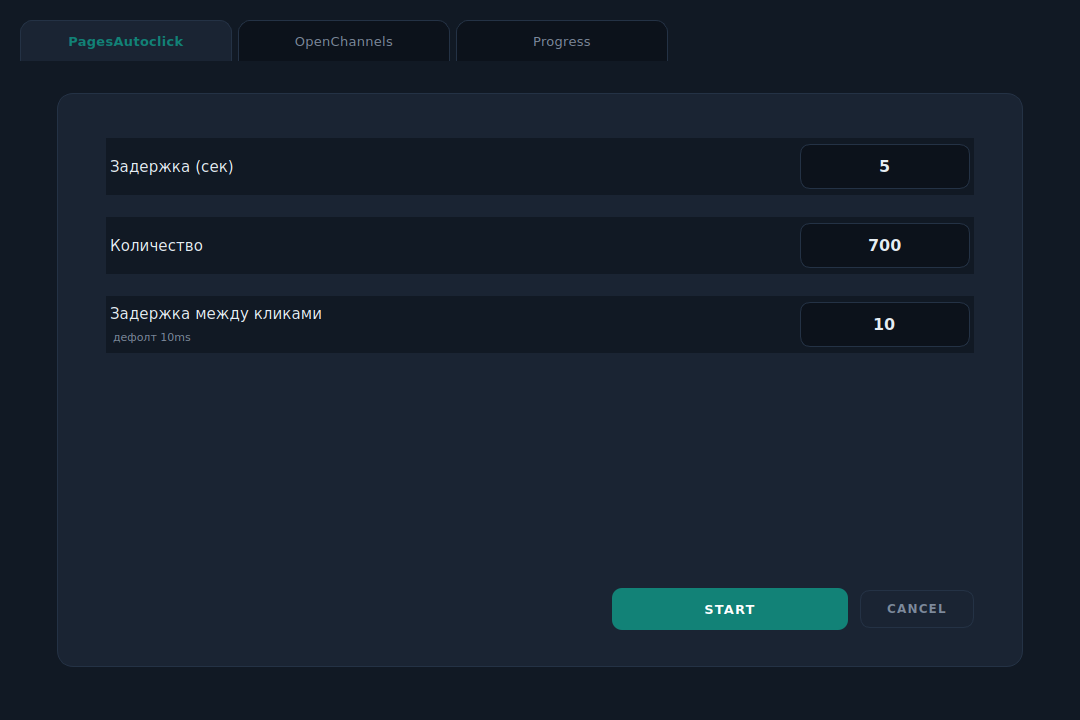
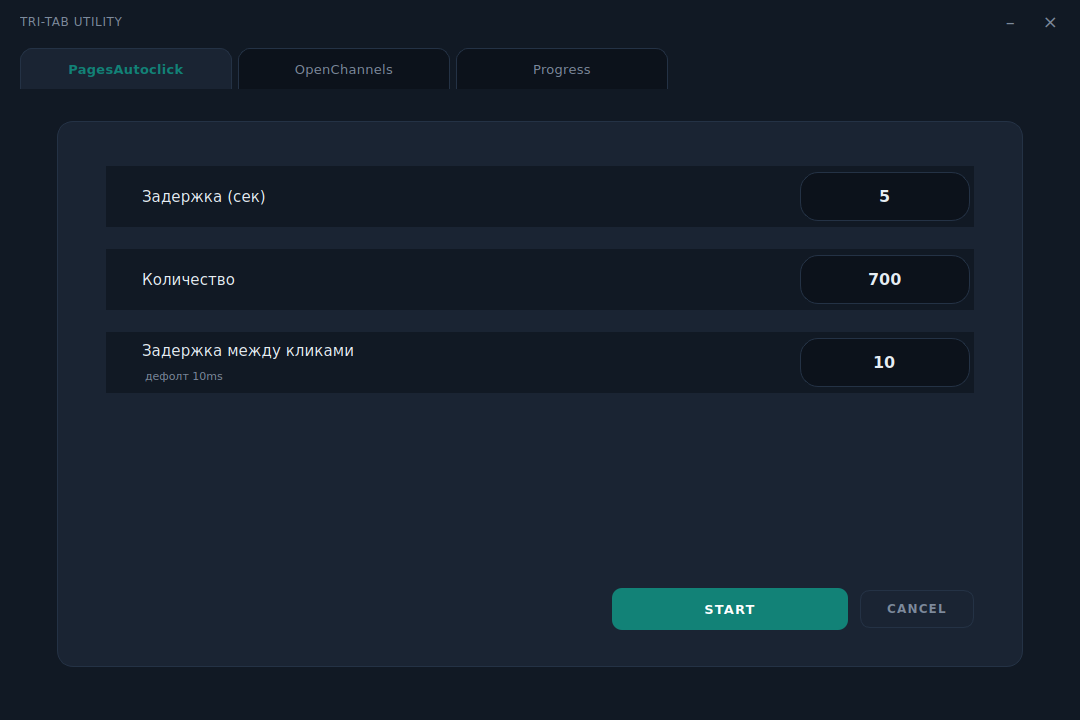
Update application interface with improved styling and custom window controls
Implement Helvetica font, rounded input fields, adjusted padding, and a custom frameless window with minimize/close buttons.

Replit-Commit-Author: Agent
Replit-Commit-Session-Id: fa9c77c0-7a4c-45c5-8648-3131b077b8af
Replit-Commit-Checkpoint-Type: full_checkpoint
Replit-Commit-Event-Id: b21d5144-1917-4651-a9e3-d00d262d8739
Replit-Helium-Checkpoint-Created: true

diff --git a/desktop-app/main.py b/desktop-app/main.py
@@ -12,8 +12,8 @@ from __future__ import annotations
 
 import sys
 
-from PyQt6.QtCore import Qt
-from PyQt6.QtGui import QFont, QIcon, QIntValidator
+from PyQt6.QtCore import QPoint, QRect, Qt
+from PyQt6.QtGui import QFont, QIcon, QIntValidator, QMouseEvent
 from PyQt6.QtWidgets import (
     QApplication,
     QFrame,
@@ -50,7 +50,7 @@ QSS = f"""
 QMainWindow, QWidget {{
     background-color: {BG_PRIMARY};
     color: {TEXT_PRIMARY};
-    font-family: 'Inter', 'Segoe UI', 'SF Pro Text', 'Helvetica Neue', Arial, sans-serif;
+    font-family: 'Helvetica', 'Helvetica Neue', 'Arial', 'Liberation Sans', 'DejaVu Sans', sans-serif;
     font-size: 13px;
 }}
 
@@ -108,8 +108,8 @@ QLabel#SmallLabel {{
     color: {TEXT_MUTED};
     font-size: 11px;
     font-weight: 600;
-    letter-spacing: 1.2px;
-    padding-bottom: 2px;
+    letter-spacing: 1.4px;
+    padding: 4px 0 8px 14px;
 }}
 QLabel#TotalAmount {{
     color: {TEXT_PRIMARY};
@@ -123,8 +123,8 @@ QLineEdit {{
     background-color: {BG_SUNKEN};
     color: {TEXT_PRIMARY};
     border: 1px solid {BORDER};
-    border-radius: 10px;
-    padding: 10px 14px;
+    border-radius: 16px;
+    padding: 12px 16px;
     font-size: 14px;
     selection-background-color: {SECONDARY};
 }}
@@ -136,7 +136,8 @@ QLineEdit#NumericInput {{
     font-weight: 600;
     qproperty-alignment: AlignCenter;
     min-width: 130px;
-    padding: 11px 14px;
+    padding: 13px 16px;
+    border-radius: 18px;
 }}
 QLineEdit#TotalInput {{
     font-size: 16px;
@@ -144,6 +145,7 @@ QLineEdit#TotalInput {{
     qproperty-alignment: AlignCenter;
     color: {TEXT_PRIMARY};
     background-color: #0a1018;
+    border-radius: 18px;
 }}
 
 /* Buttons */
@@ -245,6 +247,41 @@ QProgressBar#TotalProgress::chunk {{
         stop:0 {SECONDARY}, stop:1 {EMERALD});
 }}
 
+/* Window control buttons */
+QPushButton#WindowMin, QPushButton#WindowClose {{
+    background-color: transparent;
+    color: {TEXT_MUTED};
+    border: none;
+    border-radius: 8px;
+    min-width: 38px;
+    max-width: 38px;
+    min-height: 30px;
+    max-height: 30px;
+    padding: 0;
+    font-size: 18px;
+    font-weight: 400;
+    letter-spacing: 0;
+}}
+QPushButton#WindowMin:hover {{
+    background-color: #1a2433;
+    color: {TEXT_PRIMARY};
+}}
+QPushButton#WindowClose:hover {{
+    background-color: {DANGER};
+    color: white;
+}}
+
+/* Title bar widget */
+QWidget#TitleBar {{
+    background-color: {BG_PRIMARY};
+}}
+QLabel#WindowTitle {{
+    color: {TEXT_MUTED};
+    font-size: 12px;
+    font-weight: 500;
+    letter-spacing: 0.6px;
+}}
+
 /* Radio button (the round selector on the left of each progress bar) */
 QPushButton#PickerDot {{
     background-color: transparent;
@@ -282,7 +319,7 @@ def make_field_row(label_text: str, default_value: str, hint: str | None = None,
     row = QWidget()
     row.setSizePolicy(QSizePolicy.Policy.Expanding, QSizePolicy.Policy.Fixed)
     h = QHBoxLayout(row)
-    h.setContentsMargins(4, 6, 4, 6)
+    h.setContentsMargins(36, 6, 4, 6)
     h.setSpacing(20)
 
     label_box = QVBoxLayout()
@@ -595,37 +632,213 @@ class ProgressTab(QWidget):
 
 
 # ---------------------------------------------------------------------------
-# Main window
+# Custom title bar (frameless window)
+# ---------------------------------------------------------------------------
+
+
+class TitleBar(QWidget):
+    def __init__(self, parent_window: "MainWindow", title: str = "") -> None:
+        super().__init__(parent_window)
+        self.setObjectName("TitleBar")
+        self.parent_window = parent_window
+        self._drag_offset: QPoint | None = None
+        self.setFixedHeight(44)
+
+        layout = QHBoxLayout(self)
+        layout.setContentsMargins(20, 6, 10, 6)
+        layout.setSpacing(2)
+
+        title_label = QLabel(title)
+        title_label.setObjectName("WindowTitle")
+        layout.addWidget(title_label)
+        layout.addStretch(1)
+
+        self.min_btn = QPushButton("\u2013")  # en dash – minimal "minus" glyph
+        self.min_btn.setObjectName("WindowMin")
+        self.min_btn.setCursor(Qt.CursorShape.PointingHandCursor)
+        self.min_btn.clicked.connect(parent_window.showMinimized)
+
+        self.close_btn = QPushButton("\u00d7")  # × multiplication sign
+        self.close_btn.setObjectName("WindowClose")
+        self.close_btn.setCursor(Qt.CursorShape.PointingHandCursor)
+        self.close_btn.clicked.connect(parent_window.close)
+
+        layout.addWidget(self.min_btn)
+        layout.addWidget(self.close_btn)
+
+    # drag the window by the title bar
+    def mousePressEvent(self, ev: QMouseEvent) -> None:
+        if ev.button() == Qt.MouseButton.LeftButton:
+            self._drag_offset = (
+                ev.globalPosition().toPoint()
+                - self.parent_window.frameGeometry().topLeft()
+            )
+            ev.accept()
+
+    def mouseMoveEvent(self, ev: QMouseEvent) -> None:
+        if self._drag_offset is not None and ev.buttons() & Qt.MouseButton.LeftButton:
+            if self.parent_window.isMaximized():
+                # restore on drag-from-maximized so the window follows the cursor
+                self.parent_window.showNormal()
+            self.parent_window.move(ev.globalPosition().toPoint() - self._drag_offset)
+            ev.accept()
+
+    def mouseReleaseEvent(self, ev: QMouseEvent) -> None:
+        self._drag_offset = None
+
+    def mouseDoubleClickEvent(self, ev: QMouseEvent) -> None:
+        if self.parent_window.isMaximized():
+            self.parent_window.showNormal()
+        else:
+            self.parent_window.showMaximized()
+
+
+# ---------------------------------------------------------------------------
+# Main window — frameless + edge-resizable
 # ---------------------------------------------------------------------------
 
 
 class MainWindow(QMainWindow):
+    RESIZE_MARGIN = 6
+
     def __init__(self) -> None:
         super().__init__()
+        self.setWindowFlags(Qt.WindowType.FramelessWindowHint)
+        self.setAttribute(Qt.WidgetAttribute.WA_TranslucentBackground, False)
+        self.setMouseTracking(True)
         self.setWindowTitle("Tri-Tab Utility")
         self.setMinimumSize(960, 620)
         self.resize(1080, 720)
 
+        # resize state
+        self._resize_dir: str | None = None
+        self._resize_start_pos: QPoint | None = None
+        self._resize_start_geom: QRect | None = None
+
         central = QWidget()
+        central.setMouseTracking(True)
         self.setCentralWidget(central)
         layout = QVBoxLayout(central)
-        layout.setContentsMargins(20, 20, 20, 20)
-        layout.setSpacing(10)
+        layout.setContentsMargins(0, 0, 0, 0)
+        layout.setSpacing(0)
+
+        # Title bar
+        self.title_bar = TitleBar(self, "TRI-TAB UTILITY")
+        layout.addWidget(self.title_bar)
+
+        # Body container
+        body = QWidget()
+        body.setMouseTracking(True)
+        body_layout = QVBoxLayout(body)
+        body_layout.setContentsMargins(20, 4, 20, 20)
+        body_layout.setSpacing(10)
 
         tabs = QTabWidget()
         tabs.setDocumentMode(True)
         tabs.addTab(AutoclickTab(), "PagesAutoclick")
         tabs.addTab(OpenChannelsTab(), "OpenChannels")
         tabs.addTab(ProgressTab(), "Progress")
-        layout.addWidget(tabs)
+        body_layout.addWidget(tabs)
+        layout.addWidget(body)
+
+    # ---------------- frameless edge resize ----------------
+    def _hit_test(self, pos: QPoint) -> str | None:
+        m = self.RESIZE_MARGIN
+        rect = self.rect()
+        x, y = pos.x(), pos.y()
+        on_left = x <= m
+        on_right = x >= rect.width() - m
+        on_top = y <= m
+        on_bottom = y >= rect.height() - m
+        if on_top and on_left:
+            return "tl"
+        if on_top and on_right:
+            return "tr"
+        if on_bottom and on_left:
+            return "bl"
+        if on_bottom and on_right:
+            return "br"
+        if on_left:
+            return "l"
+        if on_right:
+            return "r"
+        if on_top:
+            return "t"
+        if on_bottom:
+            return "b"
+        return None
+
+    def mouseMoveEvent(self, ev: QMouseEvent) -> None:
+        if self._resize_dir and ev.buttons() & Qt.MouseButton.LeftButton:
+            self._do_resize(ev.globalPosition().toPoint())
+            return
+        h = self._hit_test(ev.position().toPoint())
+        cursors = {
+            "l": Qt.CursorShape.SizeHorCursor,
+            "r": Qt.CursorShape.SizeHorCursor,
+            "t": Qt.CursorShape.SizeVerCursor,
+            "b": Qt.CursorShape.SizeVerCursor,
+            "tl": Qt.CursorShape.SizeFDiagCursor,
+            "br": Qt.CursorShape.SizeFDiagCursor,
+            "tr": Qt.CursorShape.SizeBDiagCursor,
+            "bl": Qt.CursorShape.SizeBDiagCursor,
+        }
+        if h:
+            self.setCursor(cursors[h])
+        else:
+            self.unsetCursor()
+        super().mouseMoveEvent(ev)
+
+    def mousePressEvent(self, ev: QMouseEvent) -> None:
+        if ev.button() == Qt.MouseButton.LeftButton:
+            h = self._hit_test(ev.position().toPoint())
+            if h:
+                self._resize_dir = h
+                self._resize_start_pos = ev.globalPosition().toPoint()
+                self._resize_start_geom = QRect(self.geometry())
+                ev.accept()
+                return
+        super().mousePressEvent(ev)
+
+    def mouseReleaseEvent(self, ev: QMouseEvent) -> None:
+        self._resize_dir = None
+        super().mouseReleaseEvent(ev)
+
+    def _do_resize(self, gpos: QPoint) -> None:
+        if not self._resize_dir or self._resize_start_geom is None:
+            return
+        delta = gpos - self._resize_start_pos
+        g = QRect(self._resize_start_geom)
+        d = self._resize_dir
+        min_w = self.minimumWidth()
+        min_h = self.minimumHeight()
+        if "l" in d:
+            new_left = g.left() + delta.x()
+            if g.right() - new_left + 1 < min_w:
+                new_left = g.right() - min_w + 1
+            g.setLeft(new_left)
+        if "r" in d:
+            new_right = g.right() + delta.x()
+            if new_right - g.left() + 1 < min_w:
+                new_right = g.left() + min_w - 1
+            g.setRight(new_right)
+        if "t" in d:
+            new_top = g.top() + delta.y()
+            if g.bottom() - new_top + 1 < min_h:
+                new_top = g.bottom() - min_h + 1
+            g.setTop(new_top)
+        if "b" in d:
+            new_bottom = g.bottom() + delta.y()
+            if new_bottom - g.top() + 1 < min_h:
+                new_bottom = g.top() + min_h - 1
+            g.setBottom(new_bottom)
+        self.setGeometry(g)
 
 
 def main() -> int:
     app = QApplication(sys.argv)
     app.setStyleSheet(QSS)
-    # nicer default font weight on linux render
-    f = QFont("Segoe UI", 10)
-    app.setFont(f)
+    app.setFont(QFont("Helvetica", 10))
     win = MainWindow()
     win.show()
     return app.exec()
